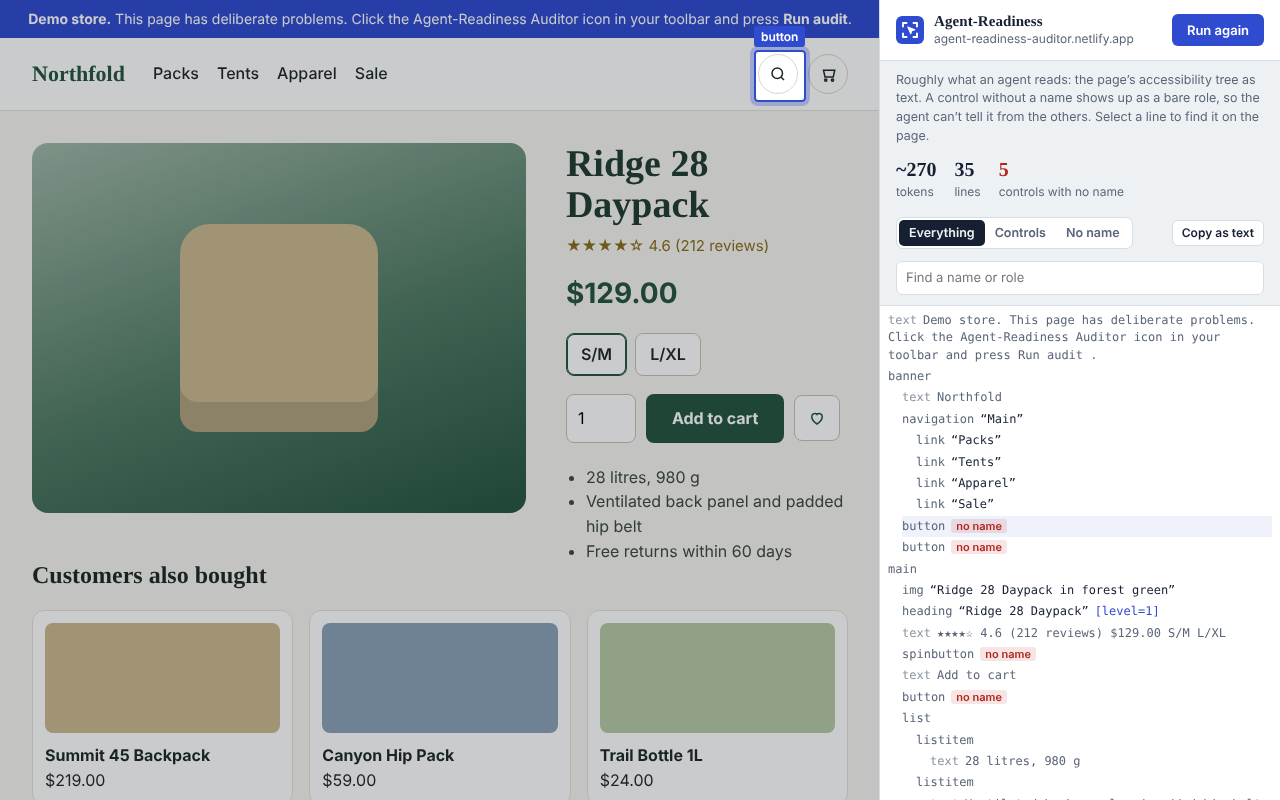
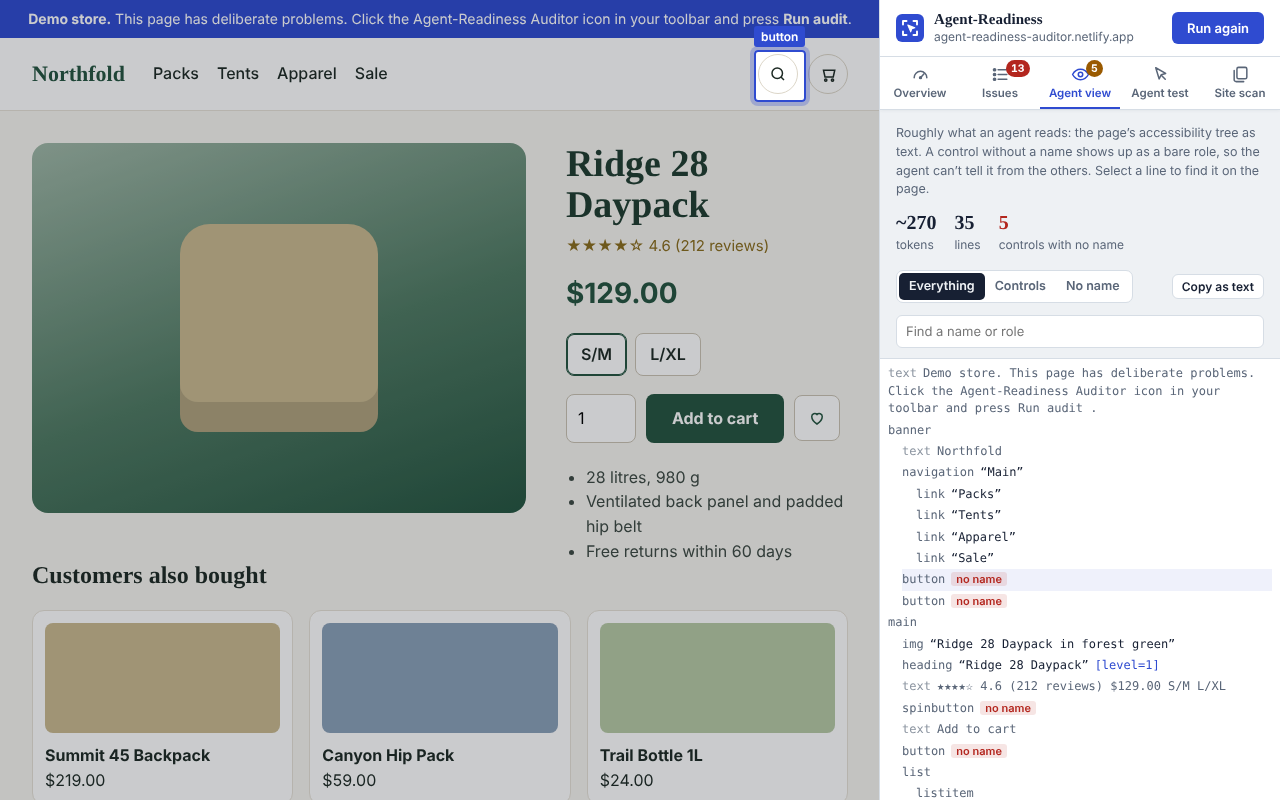
Site scan recovers from a lost tab; screenshots for the new layout
- If the scan's background tab is closed (by the person, or a crash), the
  scan notices at once, opens a new tab and retries that page once.
  Pages that redirect to another site aren't retried.
- Store and homepage screenshots retaken with the new tab bar.

Claude-Session: https://claude.ai/code/session_01QktowYpBPAELh8gxdWcwna

Changed region(s): [[0.6875, 0.0, 1.0, 1.0], [0.9375, 0.2812, 0.9688, 0.3125]]

diff --git a/sidepanel/site-scan.js b/sidepanel/site-scan.js
@@ -76,12 +76,20 @@ function pickPages(current, urls, n) {
   return out;
 }
 
+/** Resolves when the tab finishes loading; rejects at once if the tab is closed. */
 function waitForLoad(tabId) {
-  return new Promise((resolve) => {
-    const done = (why) => { clearTimeout(timer); chrome.tabs.onUpdated.removeListener(onUpdated); resolve(why); };
-    const onUpdated = (id, info) => { if (id === tabId && info.status === 'complete') done('ok'); };
-    const timer = setTimeout(() => done('timeout'), SCAN_LOAD_TIMEOUT_MS);
+  return new Promise((resolve, reject) => {
+    const done = (fn, v) => {
+      clearTimeout(timer);
+      chrome.tabs.onUpdated.removeListener(onUpdated);
+      chrome.tabs.onRemoved.removeListener(onRemoved);
+      fn(v);
+    };
+    const onUpdated = (id, info) => { if (id === tabId && info.status === 'complete') done(resolve, 'ok'); };
+    const onRemoved = (id) => { if (id === tabId) done(reject, new Error('The background tab was closed')); };
+    const timer = setTimeout(() => done(resolve, 'timeout'), SCAN_LOAD_TIMEOUT_MS);
     chrome.tabs.onUpdated.addListener(onUpdated);
+    chrome.tabs.onRemoved.addListener(onRemoved);
   });
 }
 
@@ -322,23 +330,36 @@ function renderSiteScan(r) {
     let tab;
     try {
       tab = await chrome.tabs.create({ url: 'about:blank', active: false });
+      const auditPage = async (url) => {
+        // The background tab can disappear (closed by the person, or its page crashed): open a fresh one.
+        try { await chrome.tabs.get(tab.id); } catch { tab = await chrome.tabs.create({ url: 'about:blank', active: false }); }
+        const loaded = waitForLoad(tab.id);
+        await chrome.tabs.update(tab.id, { url });
+        await loaded;
+        await sleep(SCAN_SETTLE_MS);
+        const now = await chrome.tabs.get(tab.id);
+        if (now.url && new URL(now.url).origin !== origin) {
+          const err = new Error('Went to another site (maybe a sign-in page)');
+          err.final = true;
+          throw err;
+        }
+        await chrome.scripting.executeScript({ target: { tabId: tab.id }, files: ['content/auditor.js'] });
+        const [res] = await chrome.scripting.executeScript({ target: { tabId: tab.id }, func: (o) => window.__ARA.run(o), args: [{ siteScan: true }] });
+        if (!res || !res.result) throw new Error('No result');
+        return compactPage(res.result);
+      };
       for (const p of site.pages) {
         if (site.cancel) break;
         p.running = true;
         draw();
-        try {
-          const loaded = waitForLoad(tab.id);
-          await chrome.tabs.update(tab.id, { url: p.url });
-          await loaded;
-          await sleep(SCAN_SETTLE_MS);
-          const now = await chrome.tabs.get(tab.id);
-          if (now.url && new URL(now.url).origin !== origin) throw new Error('Went to another site (maybe a sign-in page)');
-          await chrome.scripting.executeScript({ target: { tabId: tab.id }, files: ['content/auditor.js'] });
-          const [res] = await chrome.scripting.executeScript({ target: { tabId: tab.id }, func: (o) => window.__ARA.run(o), args: [{ siteScan: true }] });
-          if (!res || !res.result) throw new Error('No result');
-          p.result = compactPage(res.result);
-        } catch (e) {
-          p.error = String((e && e.message) || e).slice(0, 120);
+        for (let attempt = 0; attempt < 2 && !p.result && !site.cancel; attempt++) {
+          try {
+            p.result = await auditPage(p.url);
+            delete p.error;
+          } catch (e) {
+            p.error = String((e && e.message) || e).slice(0, 120);
+            if (e && e.final) break; // retrying won't help
+          }
         }
         p.running = false;
         draw();
